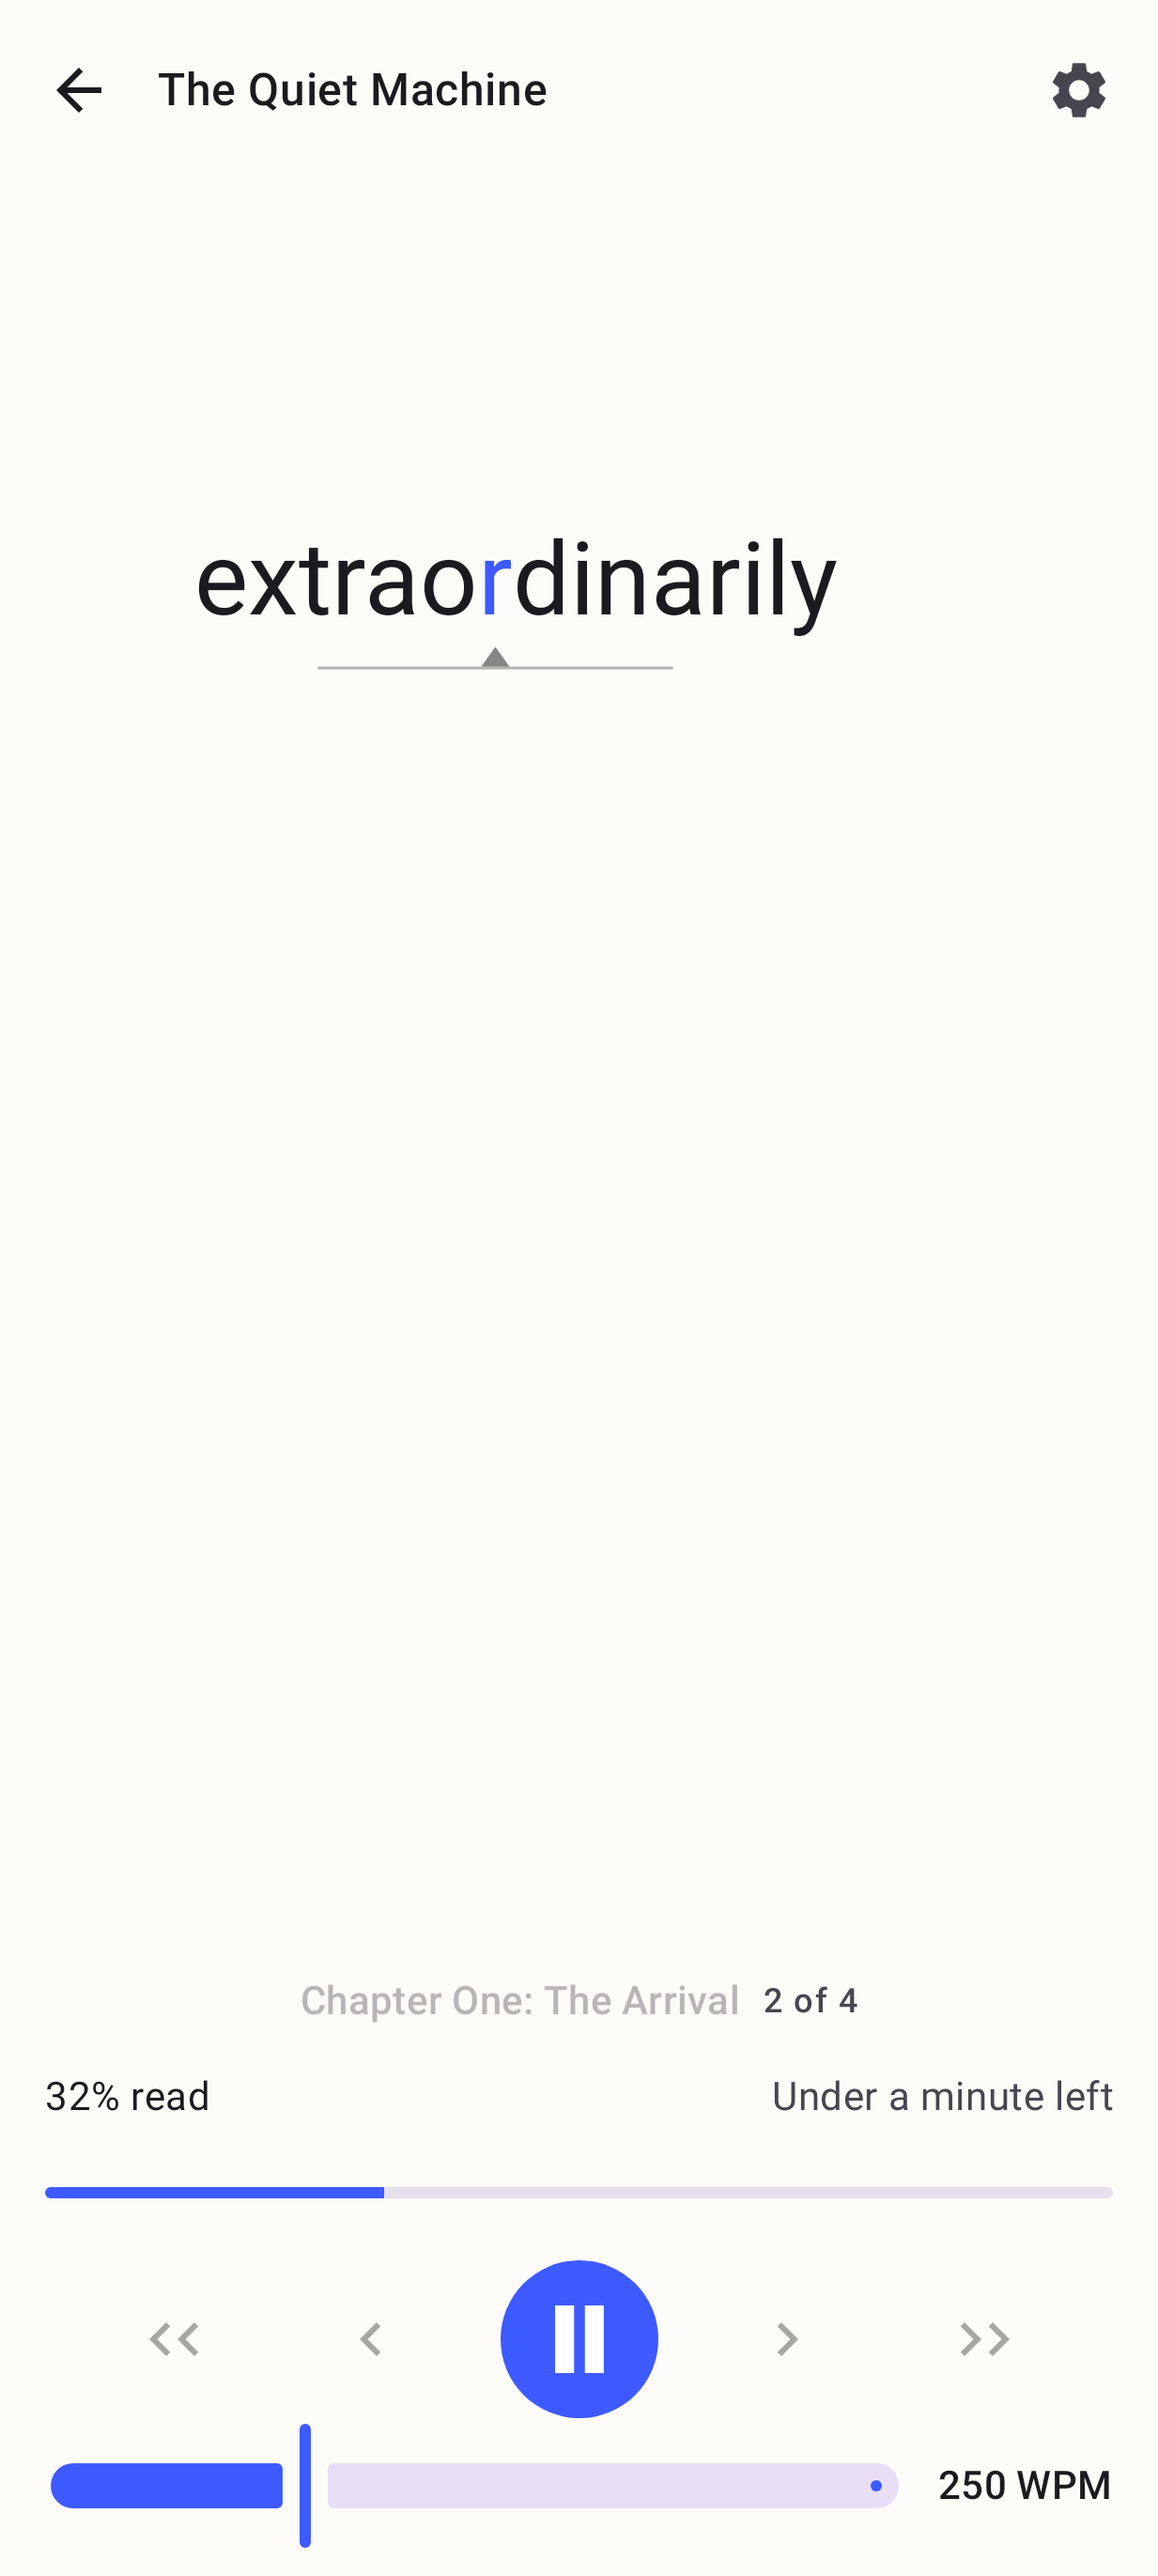
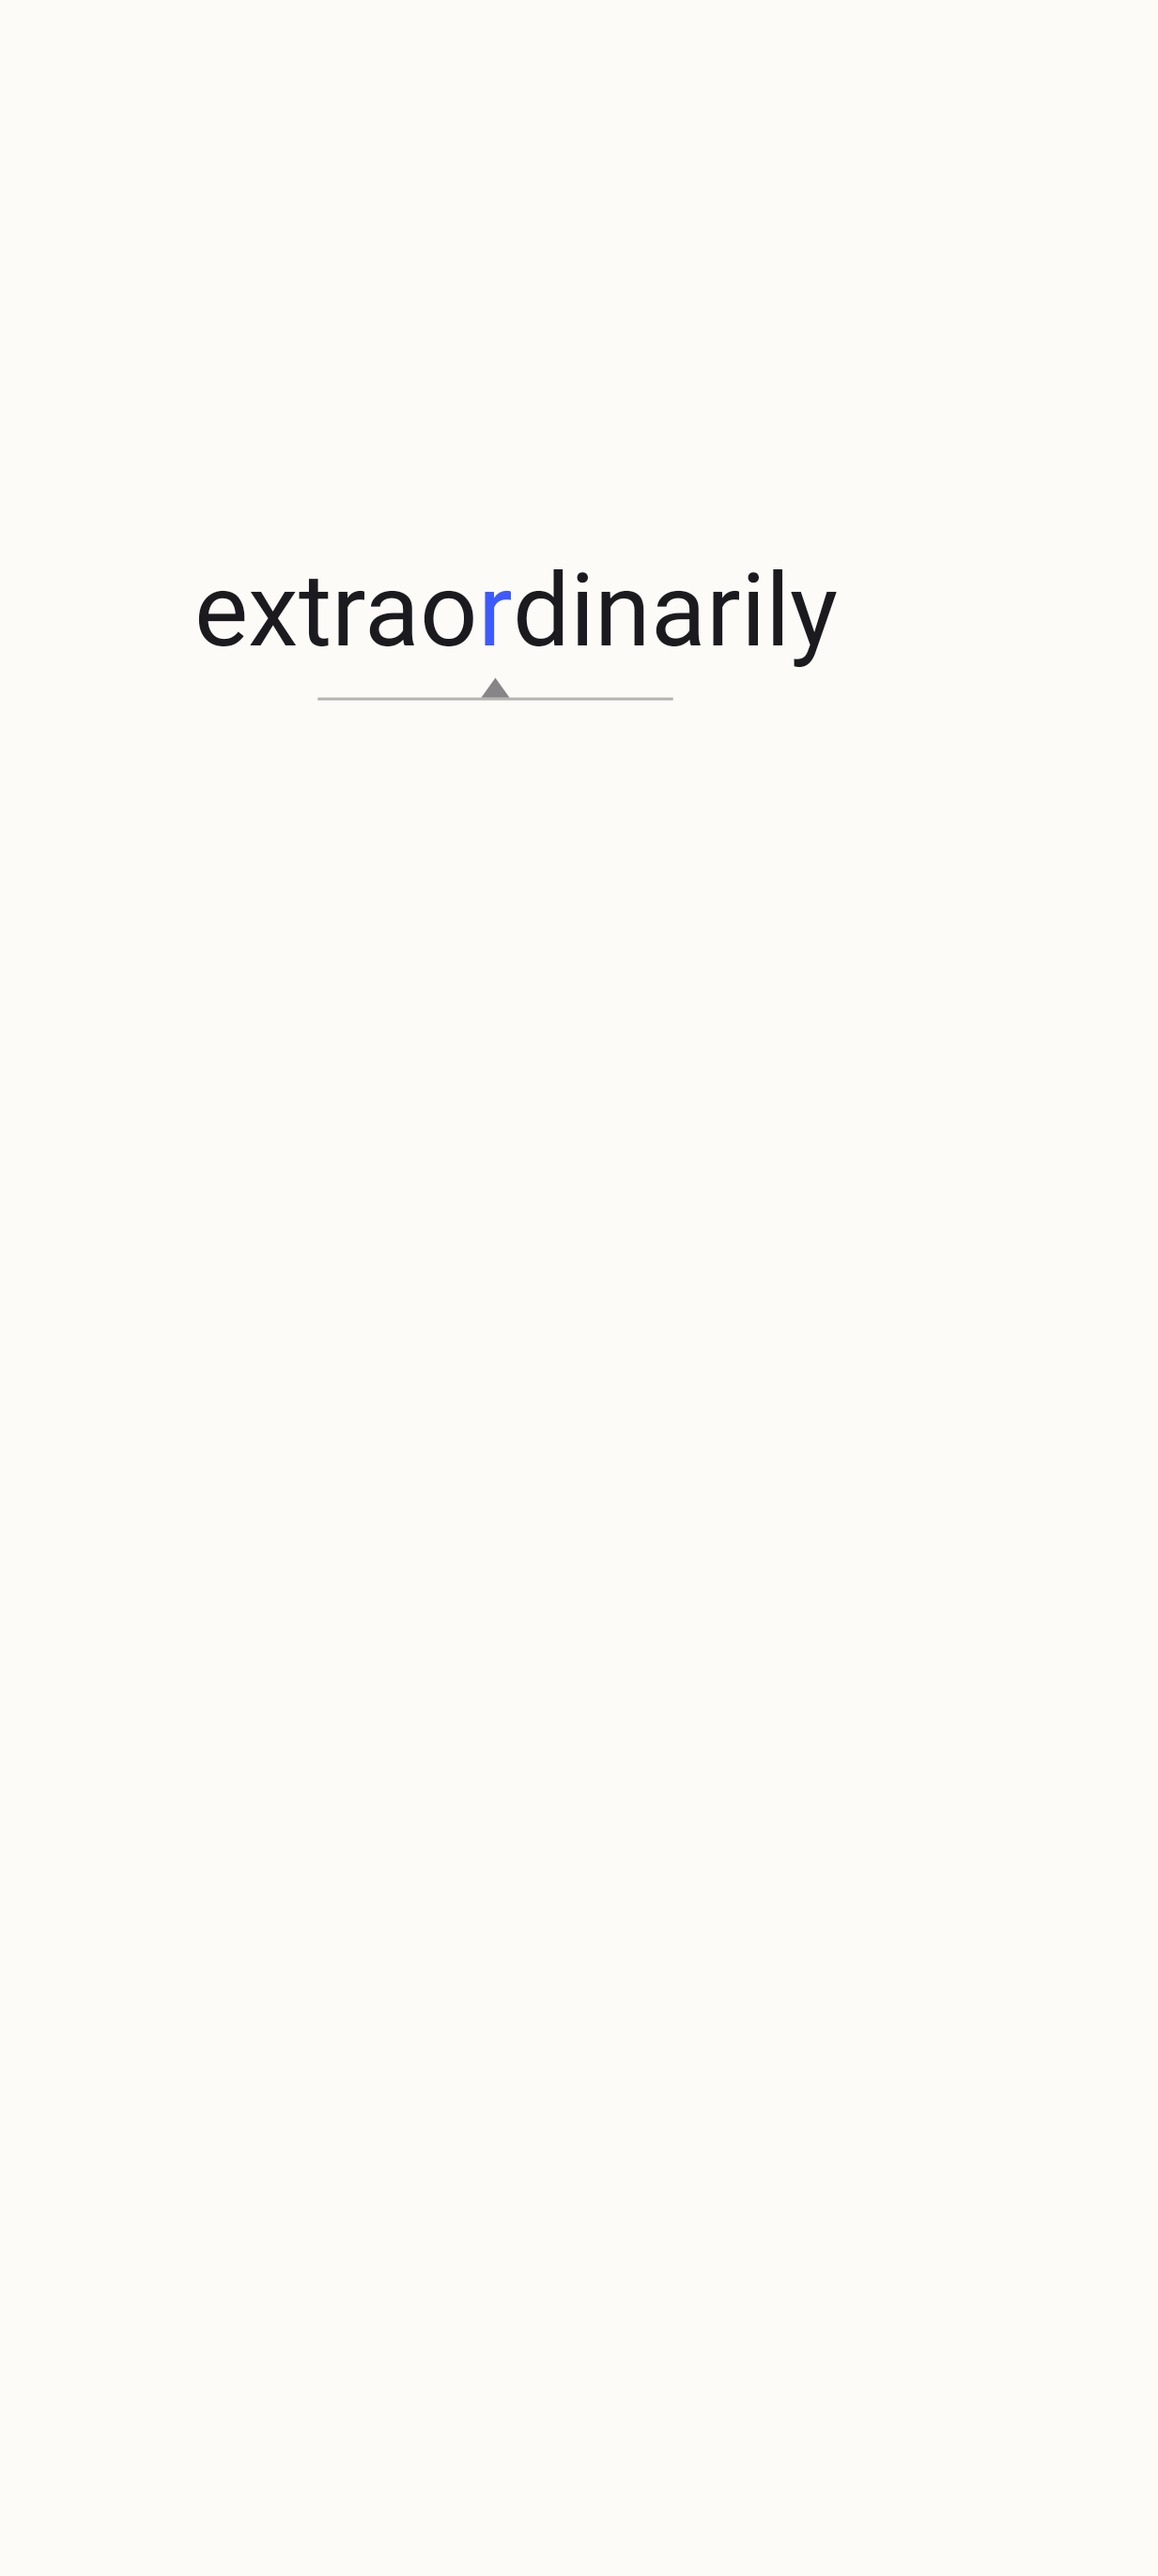
Hide all chrome while the stream runs
While the mode is PLAYING the top bar and the whole control column are not
composed: the page is the background and the reading, nothing dimmed in the
corner of the eye. Pausing brings everything back. Focused mode keeps its
meaning — the same chrome hidden while paused too.

The speed drag now lives wherever the chrome is hidden, since the slider is
gone in both cases. Tests that drove chrome on a running stream (speed entry,
wide layout, the unfocused-surface gesture cases) use a paused state; a new
case proves the drag on the running stream. Playing goldens re-recorded.

diff --git a/app/src/main/java/com/cedagova/fastreader/reader/ui/ReaderScreen.kt b/app/src/main/java/com/cedagova/fastreader/reader/ui/ReaderScreen.kt
@@ -126,11 +126,19 @@ private val TouchTarget = 48.dp
  * therefore contains no animation API at all: no `AnimatedContent`, no
  * `Crossfade`, no `animate*AsState`, and the progress bar is drawn by hand
  * ([ProgressBar]) rather than with the Material indicator, whose progress
- * variant animates. The reading surface keeps a fixed size and a fixed background
- * in every mode, and the transport controls are disabled rather than hidden while
- * the stream runs, so starting and stopping never reflows the screen. What changes
- * between two frames of a running stream is glyphs, plus the odd percent or
- * minute; nothing alternates in brightness at any speed.
+ * variant animates. The reading surface keeps a fixed background in every mode,
+ * and while the stream runs nothing but the surface is on the page at all. What
+ * changes between two frames of a running stream is glyphs; nothing alternates
+ * in brightness at any speed.
+ *
+ * ## The chrome goes while the stream runs
+ *
+ * A running stream is the word and, if the reader asked for it, the paragraph —
+ * and nothing else: the top bar and the entire control column are not composed
+ * while the mode is [ReaderMode.PLAYING], so the page is the background and the
+ * reading. Pausing brings all of it back. The controls used to stay on screen
+ * disabled; a dimmed transport is still a transport in the corner of the eye,
+ * which is the one thing a stream should not have.
  *
  * ## The presentation seam
  *
@@ -141,10 +149,11 @@ private val TouchTarget = 48.dp
  *
  * ## Focused mode (REQ-030)
  *
- * [focused] is the whole of it: with it set, the top bar and the entire control
- * column are not composed, leaving the stream and its cues alone on the page. It
- * is a parameter rather than session state because it is a property of this
- * screen, not of the book — which also lets the goldens render it directly.
+ * [focused] hides the same chrome while the stream is *paused*: with it set, the
+ * top bar and the control column stay away in every mode, leaving the stream and
+ * its cues alone on the page. It is a parameter rather than session state because
+ * it is a property of this screen, not of the book — which also lets the goldens
+ * render it directly.
  *
  * ## Speed without the controls (REQ-108)
  *
@@ -235,10 +244,11 @@ fun ReaderScreen(
 ) {
     var chapterPickerOpen by remember { mutableStateOf(false) }
 
-    // Focused mode only applies to the reader proper. A book that is still opening
-    // or cannot be opened has no stream to be focused on, and hiding the way back
-    // to the library there would strand the reader on a dead screen.
-    val chromeHidden = focused && state is ReaderUiState.Reading
+    // The chrome goes while the stream runs, and in focused mode whether or not it
+    // runs. Only for the reader proper: a book that is still opening or cannot be
+    // opened has no stream to hide it for, and hiding the way back to the library
+    // there would strand the reader on a dead screen.
+    val chromeHidden = state is ReaderUiState.Reading && (focused || state.mode == ReaderMode.PLAYING)
 
     WidthAware(modifier.fillMaxSize()) { layout ->
     Scaffold(
@@ -317,7 +327,8 @@ fun ReaderScreen(
                             state = state,
                             onTogglePlay = onTogglePlay,
                             onToggleFocused = onToggleFocused,
-                            focused = chromeHidden,
+                            focused = focused,
+                            chromeHidden = chromeHidden,
                             speedNotice = speedNotice,
                             onSpeedStep = onSpeedStep,
                             word = word,
@@ -638,13 +649,14 @@ private fun Unavailable(state: ReaderUiState.Unavailable, modifier: Modifier) {
  * carries the actions, so TalkBack offers "Pause" and "Hide the controls" on the
  * reading surface rather than leaving focused mode undiscoverable without sight.
  *
- * ## The third gesture, in focused mode only (REQ-108)
+ * ## The third gesture, only while the chrome is hidden (REQ-108)
  *
  * With the chrome hidden the speed slider is gone, so the surface takes a
  * **vertical drag**: up faster, down slower, one 25 WPM step per
- * [SpeedStepDistance]. It is added only when [focused], because the slider is the
- * speed control everywhere else and a drag on an unfocused surface would only be
- * a second way to do the same thing.
+ * [SpeedStepDistance]. It is added only when [chromeHidden] — focused mode, or a
+ * running stream — because the slider is the speed control everywhere else and a
+ * drag on a surface with the slider under it would only be a second way to do
+ * the same thing.
  *
  * It cannot collide with the two gestures above. A drag consumes the pointer past
  * touch slop, which cancels `combinedClickable`'s press, and the drag node sits
@@ -668,7 +680,10 @@ private fun ReadingSurface(
     state: ReaderUiState.Reading,
     onTogglePlay: () -> Unit,
     onToggleFocused: () -> Unit,
+    /** What the long press toggles; the label names it. */
     focused: Boolean,
+    /** Nothing but this surface is on the page, so the speed drag lives here. */
+    chromeHidden: Boolean,
     speedNotice: String?,
     onSpeedStep: (Int) -> Unit,
     word: @Composable (ReaderWord, Modifier) -> Unit,
@@ -713,9 +728,9 @@ private fun ReadingSurface(
                 // After the clickable, never before: the inner node sees each
                 // pointer event first, so a real drag is consumed here and the
                 // press above it is cancelled instead of also firing.
-                .then(if (focused) Modifier.speedGesture(onSpeedStep) else Modifier)
+                .then(if (chromeHidden) Modifier.speedGesture(onSpeedStep) else Modifier)
                 .padding(horizontal = 20.dp)
-                .testTag(if (focused) "reader_surface_focused" else "reader_surface"),
+                .testTag(if (chromeHidden) "reader_surface_focused" else "reader_surface"),
         ) {
             when (state.mode) {
                 // The word keeps the same place whether the stream is running or

diff --git a/app/src/test/java/com/cedagova/fastreader/reader/ui/ReaderSpeedGestureTest.kt b/app/src/test/java/com/cedagova/fastreader/reader/ui/ReaderSpeedGestureTest.kt
@@ -41,8 +41,11 @@ class ReaderSpeedGestureTest {
     val composeRule = createComposeRule()
 
     private val book = ReaderFixtures.englishNovel
-    private val playing = ReaderBookView("The Quiet Machine", book)
-        .present(ReaderSession(book).jumpTo(12).play())
+    private val view = ReaderBookView("The Quiet Machine", book)
+    private val playing = view.present(ReaderSession(book).jumpTo(12).play())
+
+    /** Paused and unfocused is the one state with the slider on screen, so the surface has no drag. */
+    private val paused = view.present(ReaderSession(book).jumpTo(12))
 
     private val steps = mutableListOf<Int>()
     private var taps = 0
@@ -66,6 +69,16 @@ class ReaderSpeedGestureTest {
         assertTrue("steps were $steps", steps.sum() < 0)
     }
 
+    /** A running stream has no slider on screen either, so it carries the drag without focused mode. */
+    @Test
+    fun `dragging the running stream changes speed without focused mode`() {
+        show(focused = false)
+
+        composeRule.onNodeWithTag("reader_surface_focused").performTouchInput { swipeUp() }
+
+        assertTrue("steps were $steps", steps.sum() > 0)
+    }
+
     /** A drag is not a tap and not a long press; the two v1 gestures are untouched. */
     @Test
     fun `a drag does not also play, pause, or leave focused mode`() {
@@ -80,7 +93,7 @@ class ReaderSpeedGestureTest {
     /** Out of scope for this issue: with the chrome up, the slider is the speed control. */
     @Test
     fun `dragging the unfocused surface changes nothing`() {
-        show(focused = false)
+        show(focused = false, state = paused)
 
         composeRule.onNodeWithTag("reader_surface").performTouchInput { swipeUp() }
 
@@ -106,7 +119,7 @@ class ReaderSpeedGestureTest {
     /** Nothing offers a speed action where the slider already is. */
     @Test
     fun `the unfocused surface has no speed actions`() {
-        show(focused = false)
+        show(focused = false, state = paused)
 
         val actions = composeRule.onNodeWithTag("reader_surface")
             .fetchSemanticsNode()
@@ -124,11 +137,11 @@ class ReaderSpeedGestureTest {
         composeRule.onNodeWithText("500 WPM").assertIsDisplayed()
     }
 
-    private fun show(focused: Boolean, notice: String? = null) {
+    private fun show(focused: Boolean, notice: String? = null, state: ReaderUiState = playing) {
         composeRule.setContent {
             FastReaderTheme {
                 ReaderScreen(
-                    state = playing,
+                    state = state,
                     onBack = {},
                     onTogglePlay = { taps += 1 },
                     onWpmChange = {},

diff --git a/app/src/test/java/com/cedagova/fastreader/reader/ui/ReaderSpeedEntryTest.kt b/app/src/test/java/com/cedagova/fastreader/reader/ui/ReaderSpeedEntryTest.kt
@@ -32,8 +32,9 @@ class ReaderSpeedEntryTest {
     val composeRule = createComposeRule()
 
     private val book = ReaderFixtures.englishNovel
-    private val playing = ReaderBookView("The Quiet Machine", book)
-        .present(ReaderSession(book).jumpTo(12).play())
+    // Paused: the readout is chrome, and the chrome is off the page while the stream runs.
+    private val paused = ReaderBookView("The Quiet Machine", book)
+        .present(ReaderSession(book).jumpTo(12))
 
     private val speeds = mutableListOf<Int>()
 
@@ -66,7 +67,7 @@ class ReaderSpeedEntryTest {
         composeRule.onNodeWithTag("reader_speed_entry").performTextInput("0")
         settle()
         composeRule.onNodeWithTag("reader_speed_entry")
-            .assert(hasText(playing.wpm.toString() + "0"))
+            .assert(hasText(paused.wpm.toString() + "0"))
     }
 
     @Test
@@ -95,7 +96,7 @@ class ReaderSpeedEntryTest {
         composeRule.setContent {
             FastReaderTheme {
                 ReaderScreen(
-                    state = playing,
+                    state = paused,
                     onBack = {},
                     onTogglePlay = {},
                     onWpmChange = { speeds += it },

diff --git a/app/src/test/java/com/cedagova/fastreader/reader/ui/ReaderWideLayoutTest.kt b/app/src/test/java/com/cedagova/fastreader/reader/ui/ReaderWideLayoutTest.kt
@@ -69,7 +69,8 @@ class ReaderWideLayoutTest {
 
     private fun render(focused: Boolean = false) {
         val book = ReaderFixtures.englishNovel
-        val state = ReaderBookView("The Quiet Machine", book).present(ReaderSession(book).jumpTo(12).play())
+        // Paused: a running stream has no control column to place at any width.
+        val state = ReaderBookView("The Quiet Machine", book).present(ReaderSession(book).jumpTo(12))
         composeRule.setContent {
             FastReaderTheme {
                 ReaderScreen(
